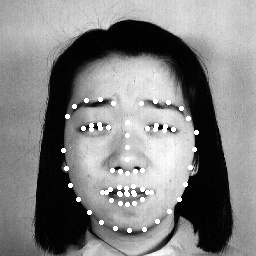
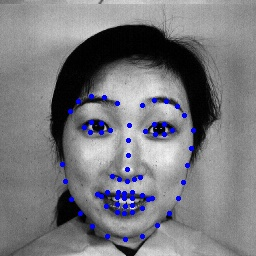
process face image

diff --git a/get_face.py b/get_face.py
@@ -1,5 +1,7 @@
 from utils import *
+import numpy as np
 import dlib
+import copy
 
 
 def get_face(origin_image):
@@ -42,26 +44,62 @@ def get_face(origin_image):
         return None
 
     # Writing the final image into the required path
-    cv2.imwrite("res1.jpg", cv2.resize(roi_gray, (500, 500)))
+    resized_image = cv2.resize(roi_gray, (500, 500))
+    cv2.imwrite("res1.jpg", resized_image)
 
+    # GET THE LANDMARKS FROM IMAGE
     detector = dlib.get_frontal_face_detector()  # Face detector
     predictor = dlib.shape_predictor("data/dlib_data/shape_predictor_68_face_landmarks.dat")
     clahe = cv2.createCLAHE(clipLimit=2.0, tileGridSize=(8, 8))
     clahe_image = clahe.apply(gray)
-
     detections = detector(clahe_image, 1)  # Detect the faces in the image
 
+    # PRINT THE LANDMARKS IN IMAGE
+    landmarks = copy.deepcopy(origin_image)
     for k, d in enumerate(detections):  # For each detected face
         shape = predictor(clahe_image, d)  # Get coordinates
-        for i in range(1, 68):  # There are 68 landmark points on each face
+        for i in range(2, 68):  # There are 68 landmark points on each face
             # For each point, draw a red circle with thickness2 on the original frame
-            cv2.circle(img=origin_image,
-                       center=(shape.part(i).x, shape.part(i).y),
+            x = shape.part(i).x
+            y = shape.part(i).y
+            cv2.circle(img=landmarks,
+                       center=(x, y),
                        radius=1,
-                       color=(255, 255, 255),
+                       color=(255, 0, 0),
                        thickness=2)
-    cv2.imwrite("res2.jpg", origin_image)  # save the frame
+    cv2.imwrite("res2.jpg", landmarks)   # SAVE ALL LANDMARKS
+
+    # PRINT THE CENTER POINT IN IMAGE
+    center = copy.deepcopy(origin_image)
+    x_list = []
+    y_list = []
+    for k, d in enumerate(detections):
+        shape = predictor(clahe_image, d)
+        for i in range(1, 68):
+            x_list.append(float(shape.part(i).x))
+            y_list.append(float(shape.part(i).y))
+
+    x_mean = np.mean(x_list)
+    y_mean = np.mean(y_list)
+    cv2.circle(img=center,
+               center=(int(x_mean), int(y_mean)),
+               radius=1,
+               color=(255, 0, 0),
+               thickness=4)
+    cv2.imwrite("res3.jpg", center)  # SAVE THE CENTER POINT
+
+    # PRINT THE LINES BETWEEN LANDMARKS AND CENTER POINT
+    lines = copy.deepcopy(origin_image)
+    for k, d in enumerate(detections):  # For each detected face
+        shape = predictor(clahe_image, d)  # Get coordinates
+        for i in range(2, 68):  # There are 68 landmark points on each face
+            # For each point, draw a red circle with thickness2 on the original frame
+            x = shape.part(i).x
+            y = shape.part(i).y
+            cv2.line(lines, (x, y), (int(x_mean), int(y_mean)), (255, 0, 0), 2)
+    cv2.imwrite("res4.jpg", lines)  # SAVE THE LINES
 
 
 # TEST USE
-# get_face("sad_face.jpg", "res.jpg")
+image = cv2.imread("test_image\happy.tiff")
+get_face(image)

diff --git a/main.py b/main.py
@@ -26,21 +26,22 @@ def model_test(input_path):
     print(EMOTIONS[res[0]])
     cv2.putText(img=image,
                 text=EMOTIONS[res[0]],
-                org=(8, 30),
+                org=(0, 20),
                 fontFace=cv2.FONT_HERSHEY_SIMPLEX,
                 fontScale=1,
-                color=(255, 0, 0),
+                color=(255, 255, 255),
                 lineType=2)
 
     cv2.imshow('result_image.jpg', image)
+    cv2.waitKey(0)
     cv2.destroyAllWindows()
 
 
 # TEST USE
 
 # input_image_path = "test_image/anger.tiff"
-# input_image_path = "test_image/happy.tiff"
-input_image_path = "test_image/sadness.tiff"
+input_image_path = "test_image/happy.tiff"
+# input_image_path = "test_image/sadness.tiff"
 # input_image_path = "test_image/surprise.tiff"
 
 model_test(input_image_path)
